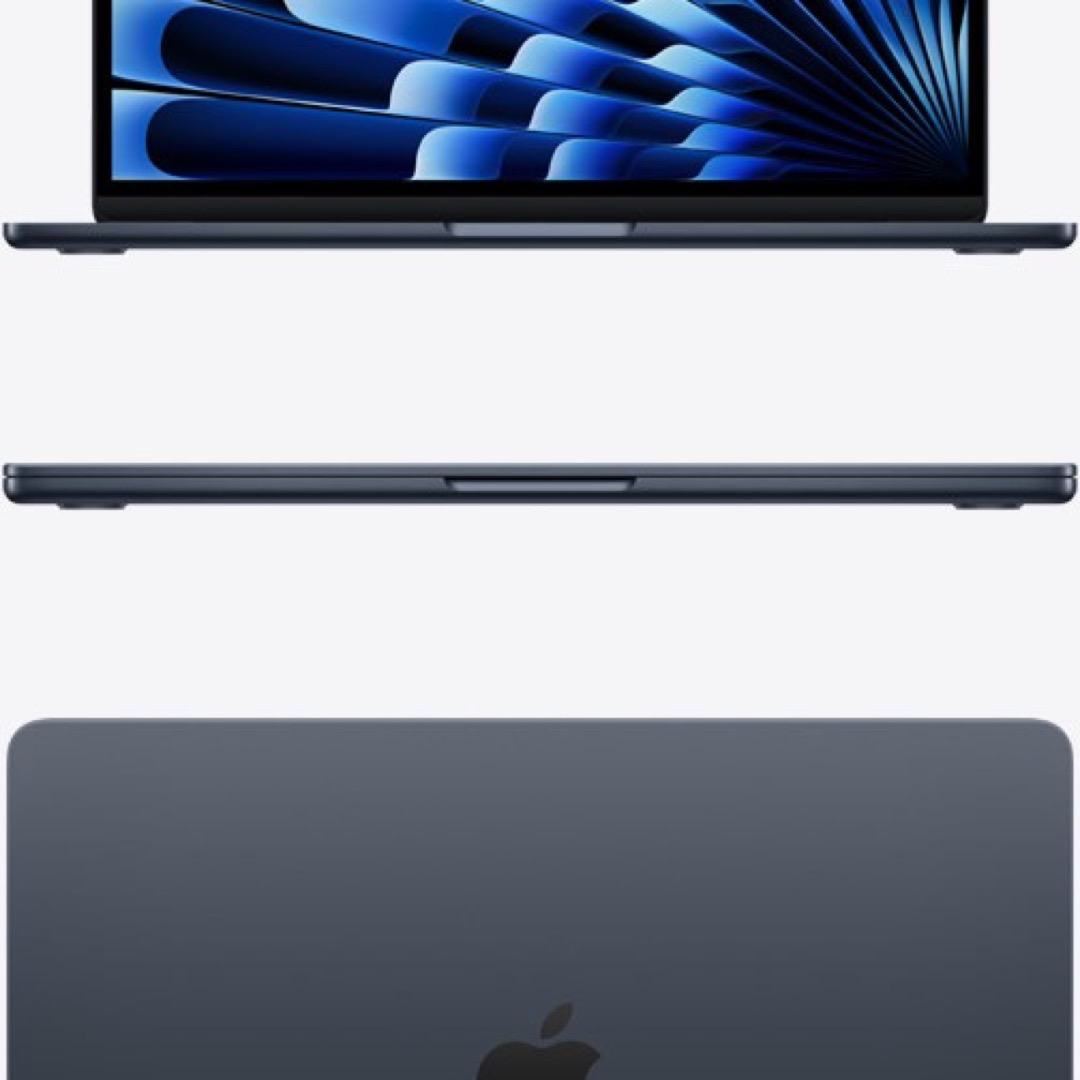
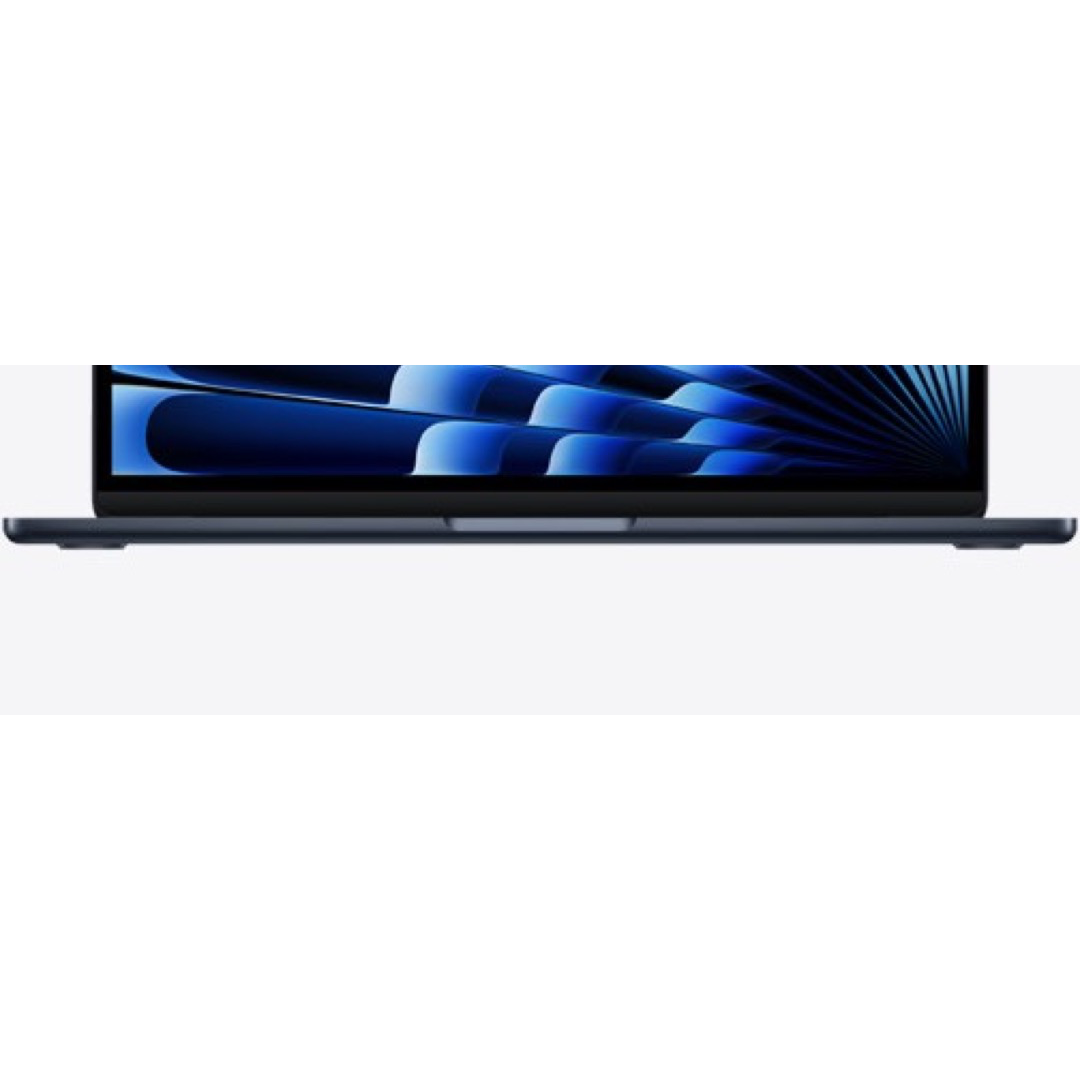
Arregla imágenes Air (portátil abierto), fondo iMac y visibilidad Mac mini
- MacBook Air M4/M5: sustituye la imagen compuesta por tres vistas (cerrado de canto, perfil y tapa) por el recorte de la vista frontal con pantalla abierta, paddeado a 1080×1080. Medianoche, Plata, Blanco estrella y Azul cielo diferenciados correctamente.
- iMac 24" M4: añade imageBg a cada ColorVariant con el color aproximado del fondo de la foto. ProductImage acepta bgColor para sustituir bg-neutral y pad=false elimina el margen que hacía visible el recuadro alrededor del iMac. Se aplica en ProductCard y en la sección Ofertas de FamilyPage.
- Mac mini (y Mac Studio): añade sección "Catálogo completo" con ProductCard para todos los modelos debajo de Ofertas destacadas en ShowcaseFamilyPage, haciendo visible el Mac mini que no tiene previousPrice.

diff --git a/src/data/products.ts b/src/data/products.ts
@@ -34,6 +34,7 @@ interface ColorSpec {
   name: string
   hex: string
   image: string
+  imageBg?: string
   caps: CapSpec[]
 }
 
@@ -43,6 +44,7 @@ function buildColors(specs: ColorSpec[]): ColorVariant[] {
     name: c.name,
     hex: c.hex,
     image: c.image,
+    ...(c.imageBg ? { imageBg: c.imageBg } : {}),
     capacities: c.caps.map(([capacity, price, prev = null, av = 'disponible', note]) =>
       cap(capacity, price, prev, av, note),
     ),
@@ -235,13 +237,13 @@ export const macModels: Model[] = [
     fromPrice: 1499,
     financeFrom: { monthly: 63, months: 24 },
     colors: buildColors([
-      { slug: 'azul', name: 'Azul', hex: '#7babcd', image: `${IMG}/imac-24-m4-azul.png`, caps: [['16 GB · 256 GB', 1499], ['16 GB · 512 GB', 1749], ['24 GB · 512 GB', 1999, null, 'bajo-pedido', 'Recíbelo en 5-7 días']] },
-      { slug: 'verde', name: 'Verde', hex: '#6aaa8a', image: `${IMG}/imac-24-m4-verde.png`, caps: [['16 GB · 256 GB', 1499], ['16 GB · 512 GB', 1749], ['24 GB · 512 GB', 1999, null, 'bajo-pedido', 'Recíbelo en 5-7 días']] },
-      { slug: 'rosa', name: 'Rosa', hex: '#e0929f', image: `${IMG}/imac-24-m4-rosa.png`, caps: [['16 GB · 256 GB', 1499], ['16 GB · 512 GB', 1749], ['24 GB · 512 GB', 1999, null, 'bajo-pedido', 'Recíbelo en 5-7 días']] },
-      { slug: 'amarillo', name: 'Amarillo', hex: '#f5c842', image: `${IMG}/imac-24-m4-amarillo.png`, caps: [['16 GB · 256 GB', 1499], ['16 GB · 512 GB', 1749], ['24 GB · 512 GB', 1999, null, 'bajo-pedido', 'Recíbelo en 5-7 días']] },
-      { slug: 'naranja', name: 'Naranja', hex: '#df7944', image: `${IMG}/imac-24-m4-naranja.png`, caps: [['16 GB · 256 GB', 1499], ['16 GB · 512 GB', 1749], ['24 GB · 512 GB', 1999, null, 'bajo-pedido', 'Recíbelo en 5-7 días']] },
-      { slug: 'morado', name: 'Morado', hex: '#9b86bd', image: `${IMG}/imac-24-m4-morado.png`, caps: [['16 GB · 256 GB', 1499], ['16 GB · 512 GB', 1749], ['24 GB · 512 GB', 1999, null, 'bajo-pedido', 'Recíbelo en 5-7 días']] },
-      { slug: 'plata', name: 'Plata', hex: '#d8d9dc', image: `${IMG}/imac-24-m4-plata.png`, caps: [['16 GB · 256 GB', 1499], ['16 GB · 512 GB', 1749], ['24 GB · 512 GB', 1999, null, 'bajo-pedido', 'Recíbelo en 5-7 días']] },
+      { slug: 'azul', name: 'Azul', hex: '#7babcd', image: `${IMG}/imac-24-m4-azul.png`, imageBg: '#bdd5e8', caps: [['16 GB · 256 GB', 1499], ['16 GB · 512 GB', 1749], ['24 GB · 512 GB', 1999, null, 'bajo-pedido', 'Recíbelo en 5-7 días']] },
+      { slug: 'verde', name: 'Verde', hex: '#6aaa8a', image: `${IMG}/imac-24-m4-verde.png`, imageBg: '#b4d4c4', caps: [['16 GB · 256 GB', 1499], ['16 GB · 512 GB', 1749], ['24 GB · 512 GB', 1999, null, 'bajo-pedido', 'Recíbelo en 5-7 días']] },
+      { slug: 'rosa', name: 'Rosa', hex: '#e0929f', image: `${IMG}/imac-24-m4-rosa.png`, imageBg: '#efc8cf', caps: [['16 GB · 256 GB', 1499], ['16 GB · 512 GB', 1749], ['24 GB · 512 GB', 1999, null, 'bajo-pedido', 'Recíbelo en 5-7 días']] },
+      { slug: 'amarillo', name: 'Amarillo', hex: '#f5c842', image: `${IMG}/imac-24-m4-amarillo.png`, imageBg: '#fae3a0', caps: [['16 GB · 256 GB', 1499], ['16 GB · 512 GB', 1749], ['24 GB · 512 GB', 1999, null, 'bajo-pedido', 'Recíbelo en 5-7 días']] },
+      { slug: 'naranja', name: 'Naranja', hex: '#df7944', image: `${IMG}/imac-24-m4-naranja.png`, imageBg: '#efbca1', caps: [['16 GB · 256 GB', 1499], ['16 GB · 512 GB', 1749], ['24 GB · 512 GB', 1999, null, 'bajo-pedido', 'Recíbelo en 5-7 días']] },
+      { slug: 'morado', name: 'Morado', hex: '#9b86bd', image: `${IMG}/imac-24-m4-morado.png`, imageBg: '#cdc2de', caps: [['16 GB · 256 GB', 1499], ['16 GB · 512 GB', 1749], ['24 GB · 512 GB', 1999, null, 'bajo-pedido', 'Recíbelo en 5-7 días']] },
+      { slug: 'plata', name: 'Plata', hex: '#d8d9dc', image: `${IMG}/imac-24-m4-plata.png`, imageBg: '#e8e8ec', caps: [['16 GB · 256 GB', 1499], ['16 GB · 512 GB', 1749], ['24 GB · 512 GB', 1999, null, 'bajo-pedido', 'Recíbelo en 5-7 días']] },
     ]),
     specs: macSpecs('Apple M4', 'Todo en uno de 24"', 'Desde 16 GB'),
     highlights: ['Pantalla Retina 4,5K', 'Chip Apple M4', 'Diseño todo en uno', 'Cámara Center Stage', 'Seis altavoces'],

diff --git a/src/pages/FamilyPage.tsx b/src/pages/FamilyPage.tsx
@@ -217,6 +217,8 @@ function ShowcaseFamilyPage({ family, models }: { family: Family; models: Model[
                       src={firstColor.image}
                       alt={`${model.name} ${firstColor.name}`}
                       ratio="4 / 3"
+                      bgColor={firstColor.imageBg}
+                      pad={!firstColor.imageBg}
                     />
                   </div>
                 </Link>
@@ -231,6 +233,15 @@ function ShowcaseFamilyPage({ family, models }: { family: Family; models: Model[
           </div>
         </Container>
       </section>
+
+      <Container className="py-10">
+        <h2 className="mb-6 text-2xl font-extrabold text-ink">Catálogo completo {family.name}</h2>
+        <div className="grid grid-cols-1 gap-5 sm:grid-cols-2 lg:grid-cols-3">
+          {models.map((m) => (
+            <ProductCard key={m.slug} model={m} />
+          ))}
+        </div>
+      </Container>
     </>
   )
 }

diff --git a/src/components/product/ProductCard.tsx b/src/components/product/ProductCard.tsx
@@ -49,7 +49,12 @@ export function ProductCard({ model, loading = false }: { model: Model; loading?
       )}
 
       <Link to={variantPath(model)} className="block focus-visible:outline-none">
-        <ProductImage src={model.colors[0].image} alt={`${model.name} ${model.colors[0].name}`} />
+        <ProductImage
+          src={model.colors[0].image}
+          alt={`${model.name} ${model.colors[0].name}`}
+          bgColor={model.colors[0].imageBg}
+          pad={!model.colors[0].imageBg}
+        />
         <h3 className="mt-4 min-h-10 text-[15px] font-semibold text-ink group-hover:text-ink">{model.name}</h3>
       </Link>
 

diff --git a/src/components/product/ProductImage.tsx b/src/components/product/ProductImage.tsx
@@ -7,17 +7,19 @@ export function ProductImage({
   ratio = '1 / 1',
   className = '',
   pad = true,
+  bgColor,
 }: {
   src?: string
   alt: string
   ratio?: string
   className?: string
   pad?: boolean
+  bgColor?: string
 }) {
   return (
     <div
-      className={`relative grid place-items-center overflow-hidden rounded-[12px] bg-neutral ${className}`}
-      style={{ aspectRatio: ratio }}
+      className={`relative grid place-items-center overflow-hidden rounded-[12px] ${bgColor ? '' : 'bg-neutral'} ${className}`}
+      style={{ aspectRatio: ratio, backgroundColor: bgColor }}
     >
       {src ? (
         <img

diff --git a/src/data/types.ts b/src/data/types.ts
@@ -22,6 +22,7 @@ export interface ColorVariant {
   name: string // nombre visible, p. ej. 'Plata'
   hex: string // muestra de color (decorativa; el nombre siempre en texto)
   image: string // foto real de producto (public/img/products/…)
+  imageBg?: string // color de fondo de la imagen (cuando no es blanco/neutro)
   capacities: CapacityOption[]
 }
 
